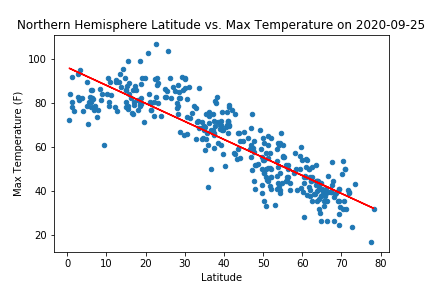
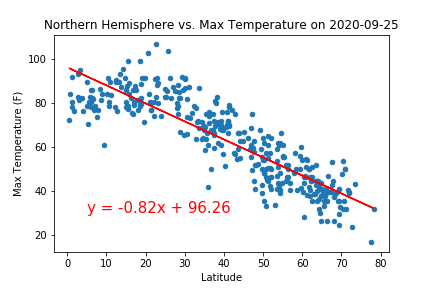
Added linear regression for temperature for each hemisphere

Changed region(s): [[0.0301, 0.0625, 0.9931, 0.125], [0.1806, 0.6875, 0.5417, 0.75]]

diff --git a/README.md b/README.md
@@ -50,9 +50,13 @@ Then it calculates linear regression for:
 
 ### Linear Regression for 2020-09-25
 
-#### Temperature (F) vs. Northern Hemisphere
+#### Northern Hemisphere vs. Temperature (F)
 
-![Temperature vs. Northern Hemisphere](WeatherPy/images/northern_temp_2020-09-25.png)
+![Northern Hemisphere vs. Temperature](WeatherPy/images/northern_temp_2020-09-25.png)
+
+#### Southern Hemisphere vs. Temperature (F)
+
+![Southern Hemisphere vs. Temperature](WeatherPy/images/southern_temp_2020-09-25.png)
 
 
 
